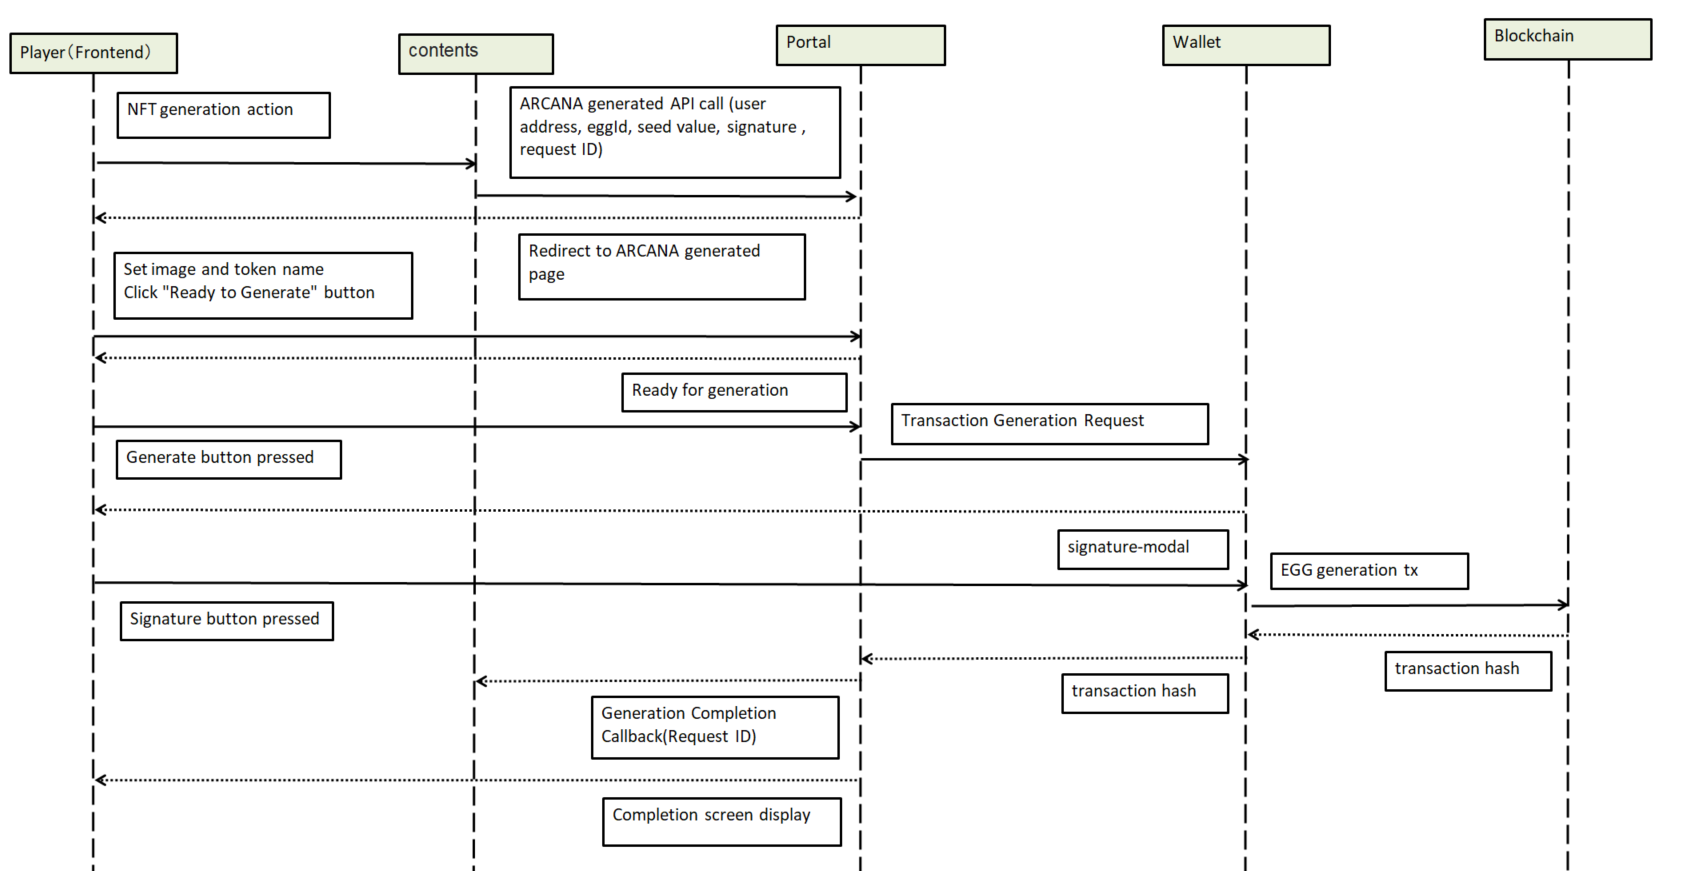
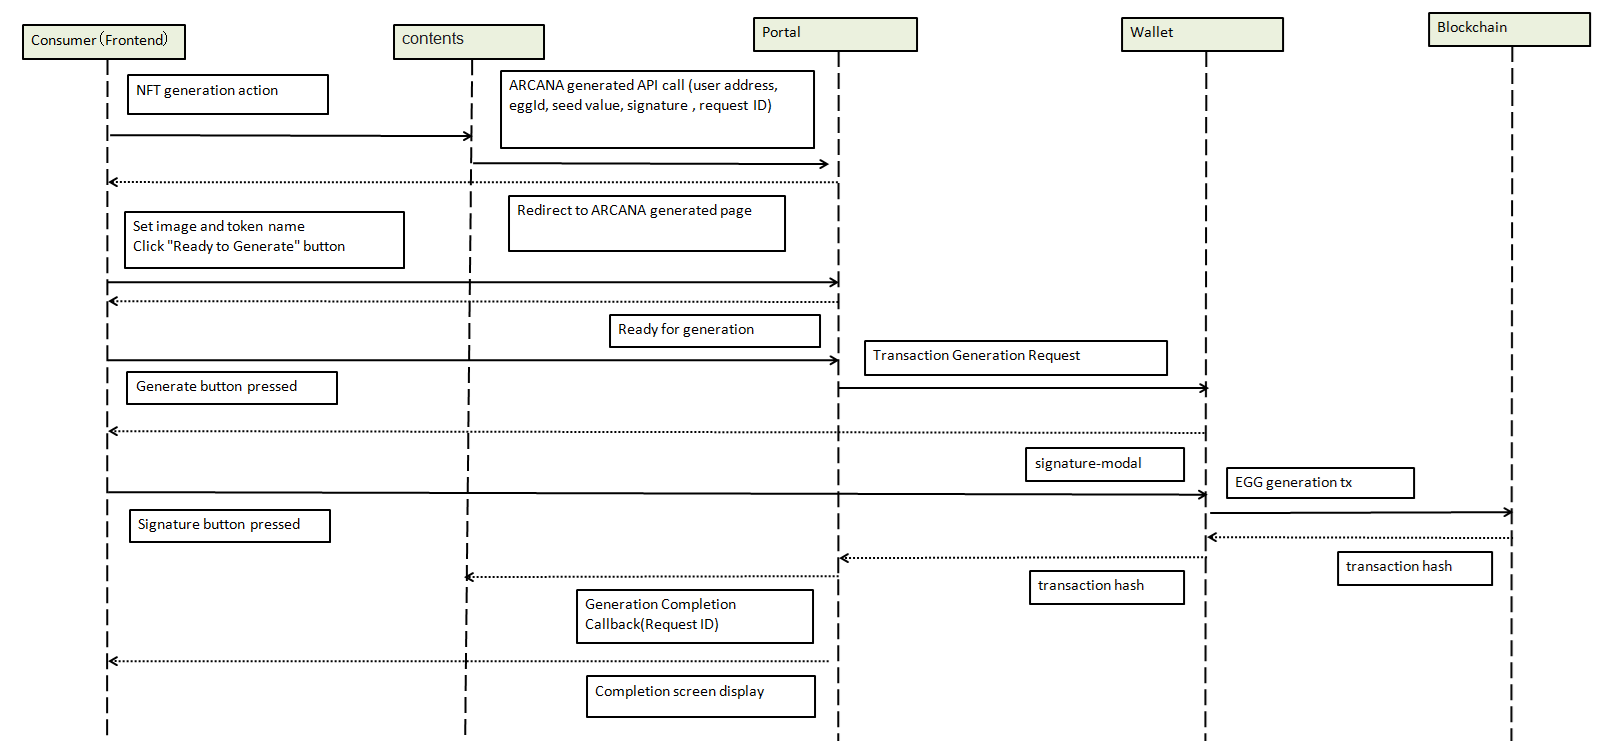
[update]
Added the following pages
　・Boloodline
Corrected the wording on the following page (Player ⇒ Consumer)
　・Advanced Security Settings for Wallet Connection
　・PERSONA Overview
　・ANICANA life cycle
　・ARCANA Generation Process
　・Implementation of DrawChain
　・Absorbing

Changed region(s): [[0.0, 0.0, 0.9346, 1.0], [0.6854, 0.0, 0.81, 0.0931], [0.8723, 0.0, 0.9969, 0.0931]]

diff --git a/source/contract-info/bloodline.rst b/source/contract-info/bloodline.rst
@@ -1,0 +1,159 @@
+###########################
+Bloodline
+###########################
+
+Overview
+============================================
+Bloodline is the lineage to which ARCANA belongs, and every ARCANA belongs to one of the 100 Bloodlines. 
+Each Bloodline has an ancestor, and it is inherited as shown in the diagram below, through the cycle of Egg -> ARCANA -> Shard, originating from the ancestor's Shard. 
+Newly generated ARCANA randomly inherit one of the two Bloodlines of the Shards used in the birth Egg.
+
+.. image:: ../img/bloodline/bloodline.png
+
+Information Retrieval
+============================================
+Bloodline information can be obtained by referencing the Bloodline contract. 
+The Bloodline contract has the following interfaces.
+
+Retrieving information about a Bloodline (Bloodline.sol)::
+
+    // Returns the ID, name, and number of ARCANA belonging to the specified bloodline
+    // @param bloodlineID
+    // @return origin ID of the bloodline
+    //         nArcanas number of ARCANA belonging to it
+    //         name name of the bloodline
+    function bloodlineInfo(uint256 bloodlineID) public view returns(
+        uint256 origin,
+        uint256 nArcanas,
+        string memory name
+    )
+
+
+
+Retrieving the Bloodline to which an ARCANA belongs(Bloodline.sol)::
+
+    // Returns the bloodlineID to which the ARCANA belongs using getBloodline[arcanaID]
+    // @param arcanaID
+    // @return bloodlineID
+    function getBloodline (uint256 arcanaID) public view returns(uint256 bloodlineID)
+
+
+Retrieving a list of ARCANA belonging to a specific Bloodline (including already burned ARCANA)(Bloodline.sol)::
+
+    // Returns an array of arcanaID belonging to the specified bloodlineID
+    // @param bloodlineID
+    // @param idx start index
+    // @param limit number of items to retrieve
+    // @return uint256[] memory array of arcanaID
+    function getBelongings(uint256 bloodlineID,uint256 idx, uint256 limit) public view returns(uint256[] memory)
+
+
+List of Bloodlines
+============================================
+
+.. csv-table::
+    :header-rows: 1
+    :align: center
+
+    "id", "name", "origin"
+    "1", "Yahweh", "Christianity, Judaism"
+    "2", "Zeus", "Greek Mythology"
+    "3", "Indra", "Hinduism"
+    "4", "Allah", "Islam"
+    "5", "Odin", "Norse Mythology"
+    "6", "Buddha", "Buddhism"
+    "7", "Heracles", "Greek Mythology"
+    "8", "Vishnu", "Hinduism"
+    "9", "Hera", "Greek Mythology"
+    "10", "Jupiter", "Roman Mythology"
+    "11", "Ganesha", "Hinduism"
+    "12", "Osiris", "Ancient Egyptian Mythology"
+    "13", "Apollo", "Greek Mythology"
+    "14", "Mahakala", "Bön, Buddhism"
+    "15", "Hari", "Hinduism"
+    "16", "Ninhursag", "Sumerian Mythology"
+    "17", "Persephone", "Greek Mythology"
+    "18", "Kukulkan", "Mayan Mythology"
+    "19", "Anubis", "Ancient Egyptian Mythology"
+    "20", "Loki", "Norse Mythology"
+    "21", "Medusa", "Greek Mythology"
+    "22", "Krishna", "Hinduism"
+    "23", "Ptah", "Ancient Egyptian Mythology"
+    "24", "Shiva", "Hinduism"
+    "25", "Athena", "Greek Mythology"
+    "26", "Dionysus", "Greek Mythology"
+    "27", "Varuna", "Hinduism"
+    "28", "Isis", "Ancient Egyptian Mythology"
+    "29", "Tirunavayi", "Tamil Deities"
+    "30", "Ganesha", "Hinduism"
+    "31", "Ceres", "Roman Mythology"
+    "32", "Ganesha", "Hinduism"
+    "33", "Pele", "Hawaiian Mythology"
+    "34", "Tiwa-tiwa-k'a", "Hopi Mythology"
+    "35", "Pericles", "Greek Mythology"
+    "36", "Jupiter", "Roman Mythology"
+    "37", "Guinevere", "Arthurian Legend"
+    "38", "Acropolis", "Greek Mythology"
+    "39", "Romulus", "Roman Mythology"
+    "40", "Balder", "Norse Mythology"
+    "41", "Tezcatlipoca", "Aztec Mythology"
+    "42", "Armadillo", "Amazonian Mythology"
+    "43", "Kunbira", "Aboriginal Mythology"
+    "44", "Izanami", "Japanese Mythology"
+    "45", "Ma'at", "Ancient Egyptian Mythology"
+    "46", "Vaishravana", "Buddhism"
+    "47", "Shakti", "Hinduism"
+    "48", "Galatea", "Greek Mythology"
+    "49", "Hachiman", "Japanese Mythology"
+    "50", "Tirangirringali", "Aboriginal Mythology"
+    "51", "Pan", "Greek Mythology"
+    "52", "Manu", "Hinduism"
+    "53", "Tlaloc", "Aztec Mythology"
+    "54", "Hephaestus", "Greek Mythology"
+    "55", "Inti", "Incan Mythology"
+    "56", "Ptolemy", "Greek Mythology"
+    "57", "Vayu", "Hinduism"
+    "58", "Gucumatz", "Mayan Mythology"
+    "59", "Frigg", "Norse Mythology"
+    "60", "Kumbhak", "Sikhism"
+    "61", "Tiwa", "Hopi Mythology"
+    "62", "Christ", "Christianity"
+    "63", "Yug", "Hinduism"
+    "64", "Wandana", "Aboriginal Mythology"
+    "65", "Hestia", "Greek Mythology"
+    "66", "Ganesha", "Hinduism"
+    "67", "Haumia-tiketike", "Maori Mythology"
+    "68", "Mahayana", "Buddhism"
+    "69", "Zelus", "Greek Mythology"
+    "70", "Tantalus", "Greek Mythology"
+    "71", "Jupiter", "Roman Mythology"
+    "72", "Vayu", "Hinduism"
+    "73", "Kiwirrkurra", "Aboriginal Mythology"
+    "74", "Saraswati", "Hinduism"
+    "75", "Hirokud", "Ainu Mythology"
+    "76", "Shorosh", "Zoroastrianism"
+    "77", "Olokun", "Yoruba Mythology"
+    "78", "Agni", "Hinduism"
+    "79", "Seb", "Ancient Egyptian Mythology"
+    "80", "Kan", "Mayan Mythology"
+    "81", "Cthulhu", "Fiction (H.P. Lovecraft's works)"
+    "82", "Izanagi", "Japanese Mythology"
+    "83", "Ta'aroa", "Polynesian Mythology"
+    "84", "Anu", "Sumerian Mythology"
+    "85", "Planeto", "Roman Mythology"
+    "96", "Tyche", "Greek Mythology"
+    "87", "Jupiter", "Roman Mythology"
+    "88", "Uranus", "Greek Mythology"
+    "89", "Bellona", "Roman Mythology"
+    "90", "Marikari", "Aboriginal Mythology"
+    "91", "Ishtar", "Babylonian Mythology"
+    "92", "Hindro", "Javanese Mythology"
+    "93", "Anubis", "Egyptian Mythology"
+    "94", "Gwani'n Myin", "Cherokee Mythology"
+    "95", "Arak-aye", "Aboriginal Mythology"
+    "96", "Utu", "Sumerian Mythology"
+    "97", "Illyria", "Greek Mythology"
+    "98", "Hikari", "Shintoism"
+    "99", "Hecate", "Greek Mythology"
+    "100", "Zeus", "Greek Mythology"
+

diff --git a/source/game-development/persona.rst b/source/game-development/persona.rst
@@ -3,7 +3,7 @@ PERSONA Overview
 ###########################
 
 | PERSONA is an NFT that plays the role of a catalyst to trigger specific smart contracts on ANICANA. The smart contracts are ERC721 compliant.
-| They are primarily created by publishers and offered to players (content users).
+| They are primarily created by publishers and offered to Consumer (content users).
 | The methods of offering may vary, including paid options and rewards in events.
 | The generation of PERSONA requires both SQUARE and ANIMA.
 | PERSONA has internal values, and Validators can set these internal values when generating PERSONA.
@@ -19,7 +19,7 @@ PERSONA Growth / Object Absorption Contract
 | 
 | PERSONAs with high FORCE internal values primarily target ARCANAs with low FORCE values. 
 | When a low-FORCE PERSONAs absorb a high-FORCE ARCANAs, there is a higher probability that the internal values of the absorbing PERSONAs will deteriorate.
-| Players can enjoy the changes resulting from object absorption, and they can also utilize PERSONAs for collecting or selling high-ability PERSONAs on secondary marketplaces.
+| Consumer can enjoy the changes resulting from object absorption, and they can also utilize PERSONAs for collecting or selling high-ability PERSONAs on secondary marketplaces.
 
 -------------------------------------------------------------------------------------------------------------------------------------------------------------------------------------------------------------------
 

diff --git a/source/change-history/change-history.rst b/source/change-history/change-history.rst
@@ -7,6 +7,16 @@ Update History
     :align: center
 
     "No", "Date of Update", "Version", "Update Details"
+    "14.", "2024/02/13", "1.3.0", "|Added the following pages
+    | 　・Boloodline
+    | Corrected the wording on the following page (Player ⇒ Consumer)
+    | 　・Advanced Security Settings for Wallet Connection
+    | 　・PERSONA Overview
+    | 　・ANICANA life cycle
+    | 　・ARCANA Generation Process
+    | 　・Implementation of DrawChain
+    | 　・Absorbing
+    | 　"
     "13.", "2024/01/05", "1.2.0","| Added the following pages
     | 　Quick Start for Publishers
     | 　Affiliate functionality

diff --git a/source/appendics/data-sign-text.rst b/source/appendics/data-sign-text.rst
@@ -7,7 +7,7 @@ Through the ANICANA Wallet Server, it is possible to obtain a user's address fro
 .. image:: ../img/wallet_connection.png
 
 
-| Player: User of the content
+| Consumer: User of the content
 | Frontend: Content's frontend
 | Backend: Content's backend
 | Wallet: ANICANA Wallet Server

diff --git a/source/index.rst b/source/index.rst
@@ -93,6 +93,7 @@ ANICANA Technical Documents
    /contract-info/calculate-genes
    /contract-info/decomposition
    /contract-info/attributes
+   /contract-info/bloodline
 
 .. toctree::
    :maxdepth: 2
